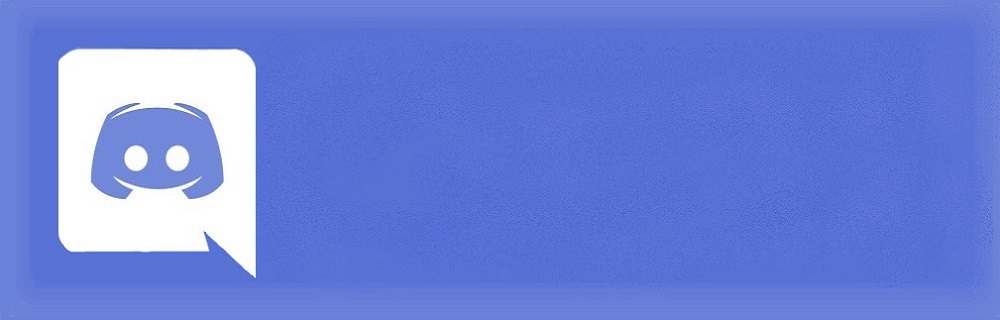
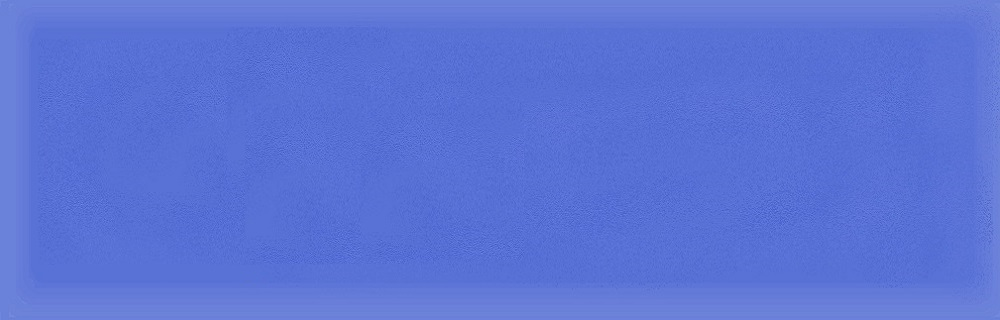
[WIP] updated display page

Changed region(s): [[0.031, 0.125, 0.279, 0.875]]

diff --git a/src/components/PublicUserPage.js b/src/components/PublicUserPage.js
@@ -81,11 +81,35 @@ const PublicUserPage = (props) => {
           <Row>
             <Col className="h4 text-center">Contacts</Col>
           </Row>
-          <Row className="discordTag mt-1 text-right">
-            <Col className="h3">Szpoti#6969</Col>
+          <Row className="discordTag mt-2 text-right">
+            <Col className="text-left">
+              <Image
+                className="logoImage"
+                src="/discord-logo.webp"
+                alt="Discord"
+              ></Image>
+            </Col>
+            <Col
+              className="h3 text-right"
+              style={{ fontSize: "2.5vw", marginTop: "6vw" }}
+            >
+              Szpoti#6969
+            </Col>
           </Row>
           <Row className="emailTag mt-2 text-right">
-            <Col className="h3">balage.farago@gmail.com</Col>
+            <Col className="text-left">
+              <Image
+                className="emailImage"
+                src="/gmail-logo.png"
+                alt="Gmail"
+              ></Image>
+            </Col>
+            <Col
+              className="h3 text-right"
+              style={{ fontSize: "2.2vw", marginTop: "6vw" }}
+            >
+              balage.farago@gmail.com
+            </Col>
           </Row>
         </Col>
       </Row>

diff --git a/src/App.css b/src/App.css
@@ -55,17 +55,22 @@
 .discordTag {
   background-image: url("/discord-tag.jpg");
   background-size: cover;
-  width: 100%;
-  height: 25%;
-  padding: 4em 0em;
-  background-position-y: -0.5em;
-  background-position-x: 0em;
   border-radius: 20px;
   box-shadow: inset 0px 0px 2px 2px #42424242;
 }
 
 .emailTag {
-  background-image: url("/gmail-logo.png");
+  background-image: url("/gmail-tag.png");
+}
+
+.logoImage {
+  width: 15vw;
+  height: 15vw;
+}
+
+.emailImage {
+  width: 15vw;
+  height: 15vw;
 }
 
 .App {
